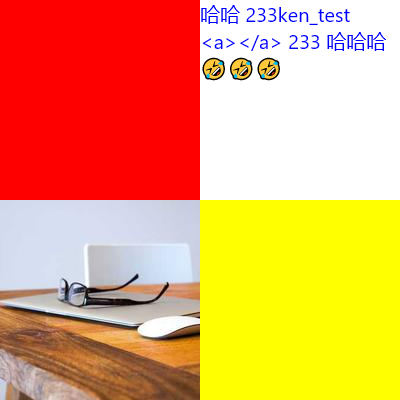
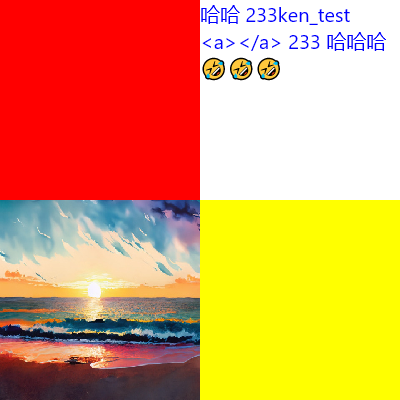
change: test image url

Changed region(s): [[0.0, 0.48, 0.51, 1.0]]

diff --git a/src/test/kotlin/com/muedsa/snapshot/tools/SimpleNoLimitedNetworkImageCacheTest.kt b/src/test/kotlin/com/muedsa/snapshot/tools/SimpleNoLimitedNetworkImageCacheTest.kt
@@ -75,17 +75,10 @@ class SimpleNoLimitedNetworkImageCacheTest {
     }
 
     companion object {
-        //        const val TEST_IMAGE_URL_1 = "https://picsum.photos/id/1/200/300"
-//        const val TEST_IMAGE_URL_2 = "https://picsum.photos/id/2/200/300"
-//        const val TEST_IMAGE_URL_3 = "https://picsum.photos/id/3/200/300"
-//        const val TEST_IMAGE_URL_4 = "https://picsum.photos/id/4/200/300"
-//        const val TEST_IMAGE_URL_5 = "https://picsum.photos/id/5/200/300"
-        const val TEST_IMAGE_URL_1 = "https://pic4.zhimg.com/v2-219efd457b49eebbb2604d3408b5716f_400x224.png"
-        const val TEST_IMAGE_URL_2 = "https://pica.zhimg.com/80/v2-f905c4699d6841c9b65ce6584ff119ba_400x224.png"
-        const val TEST_IMAGE_URL_3 = "https://pic4.zhimg.com/v2-7d91b996e9523b572f63b295d446031f_400x224.jpg"
-        const val TEST_IMAGE_URL_4 =
-            "https://pic1.zhimg.com/80/v2-ba7c92d4371c4a9646ee5478aedb3a31_400x224.webp?source=1def8aca"
-        const val TEST_IMAGE_URL_5 =
-            "https://pica.zhimg.com/80/v2-78319dbd88aea48d571aa05ca6d53fac_400x224.webp?source=1def8aca"
+        const val TEST_IMAGE_URL_1 = "https://samples-files.com/samples/Images/jpg/480-360-sample.jpg"
+        const val TEST_IMAGE_URL_2 = "https://samples-files.com/samples/Images/jpg/640-480-sample.jpg"
+        const val TEST_IMAGE_URL_3 = "https://samples-files.com/samples/Images/jpg/1280-720-sample.jpg"
+        const val TEST_IMAGE_URL_4 = "https://samples-files.com/samples/Images/jpg/1920-1080-sample.jpg"
+        const val TEST_IMAGE_URL_5 = "https://samples-files.com/samples/Images/jpg/3840-2160-sample.jpg"
     }
 }

diff --git a/src/test/kotlin/com/muedsa/snapshot/Sample.kt b/src/test/kotlin/com/muedsa/snapshot/Sample.kt
@@ -62,7 +62,11 @@ class Sample {
         File("sample_image_and_text.png").writeBytes(
             SnapshotPNG {
                 Stack {
-                    CachedNetworkImage("https://picsum.photos/id/201/500/")
+                    CachedNetworkImage(
+                        url = "https://samples-files.com/samples/Images/jpg/1280-720-sample.jpg",
+                        width = 400f,
+                        height = 400f,
+                    )
                     SimpleText("Hello World!", color = Color.RED, fontSize = 40f)
                 }
             }
@@ -81,7 +85,7 @@ class Sample {
                         </Container>
                     </Row>
                     <Row>
-                        <Image width="200" height="200" url="https://picsum.photos/id/201/200"/>
+                        <Image width="200" height="200" url="https://samples-files.com/samples/Images/jpg/480-360-sample.jpg"/>
                         <Container color="#FFFF00" width="200" height="200"/>
                     </Row>
                 </Column>

diff --git a/src/test/kotlin/com/muedsa/snapshot/widget/BackdropFilterTest.kt b/src/test/kotlin/com/muedsa/snapshot/widget/BackdropFilterTest.kt
@@ -6,6 +6,7 @@ import com.muedsa.snapshot.drawWidget
 import com.muedsa.snapshot.paint.decoration.BoxDecoration
 import com.muedsa.snapshot.paint.decoration.DecorationImage
 import com.muedsa.snapshot.tools.NetworkImageCacheManager
+import com.muedsa.snapshot.tools.SimpleNoLimitedNetworkImageCacheTest
 import org.jetbrains.skia.*
 import kotlin.test.Test
 
@@ -199,7 +200,7 @@ class BackdropFilterTest {
                         height = 500f,
                         decoration = BoxDecoration(
                             image = DecorationImage(
-                                image = NetworkImageCacheManager.defaultCache["https://picsum.photos/id/1/200/300"]
+                                image = NetworkImageCacheManager.defaultCache[SimpleNoLimitedNetworkImageCacheTest.TEST_IMAGE_URL_2]
                             )
                         ),
                         alignment = BoxAlignment.CENTER

diff --git a/src/test/kotlin/com/muedsa/snapshot/parser/tag/TagImageTest.kt b/src/test/kotlin/com/muedsa/snapshot/parser/tag/TagImageTest.kt
@@ -9,7 +9,7 @@ class TagImageTest {
     fun build_widget_test() {
         val text = """
             <Snapshot>
-                <Image url="https://picsum.photos/id/201/500"/>
+                <Image url="https://samples-files.com/samples/Images/jpg/480-360-sample.jpg"/>
             </Snapshot>
         """.trimIndent()
         println(text)
@@ -19,7 +19,7 @@ class TagImageTest {
         assert(widget is RawImage)
         val rawImage: RawImage = widget as RawImage
         assert(!rawImage.image.isEmpty)
-        assert(rawImage.image.imageInfo.width == 500)
-        assert(rawImage.image.imageInfo.height == 500)
+        assert(rawImage.image.imageInfo.width == 480)
+        assert(rawImage.image.imageInfo.height == 360)
     }
 }

diff --git a/src/test/kotlin/com/muedsa/snapshot/tools/LimitedImageInputStreamTest.kt b/src/test/kotlin/com/muedsa/snapshot/tools/LimitedImageInputStreamTest.kt
@@ -40,7 +40,7 @@ class LimitedImageInputStreamTest {
         // jpg
         readAll("https://samples-files.com/samples/Images/jpg/480-360-sample.jpg")
         // png
-        readAll("https://samples-files.com/samples/Images/jpg/480-360-sample.jpg")
+        readAll("https://samples-files.com/samples/Images/png/480-360-sample.png")
         // webp
         readAll("https://samples-files.com/samples/Images/webp/480-360-sample.webp")
 

diff --git a/README.md b/README.md
@@ -63,7 +63,11 @@ File("sample_layout.png").writeBytes(
 File("sample_image_and_text.png").writeBytes(
     SnapshotPNG {
         Stack {
-            CachedNetworkImage("https://picsum.photos/500")
+            CachedNetworkImage(
+                url = "https://samples-files.com/samples/Images/jpg/1280-720-sample.jpg",
+                width = 400f,
+                height = 400f,
+            )
             SimpleText("Hello World!", color = Color.RED, fontSize = 40f)
         }
     }
@@ -85,7 +89,7 @@ val text = """
             </Container>
         </Row>
         <Row>
-            <Image width="200" height="200" url="https://picsum.photos/id/201/200"/>
+            <Image width="200" height="200" url="https://samples-files.com/samples/Images/jpg/480-360-sample.jpg"/>
             <Container color="#FFFF00" width="200" height="200"/>
         </Row>
     </Column>
